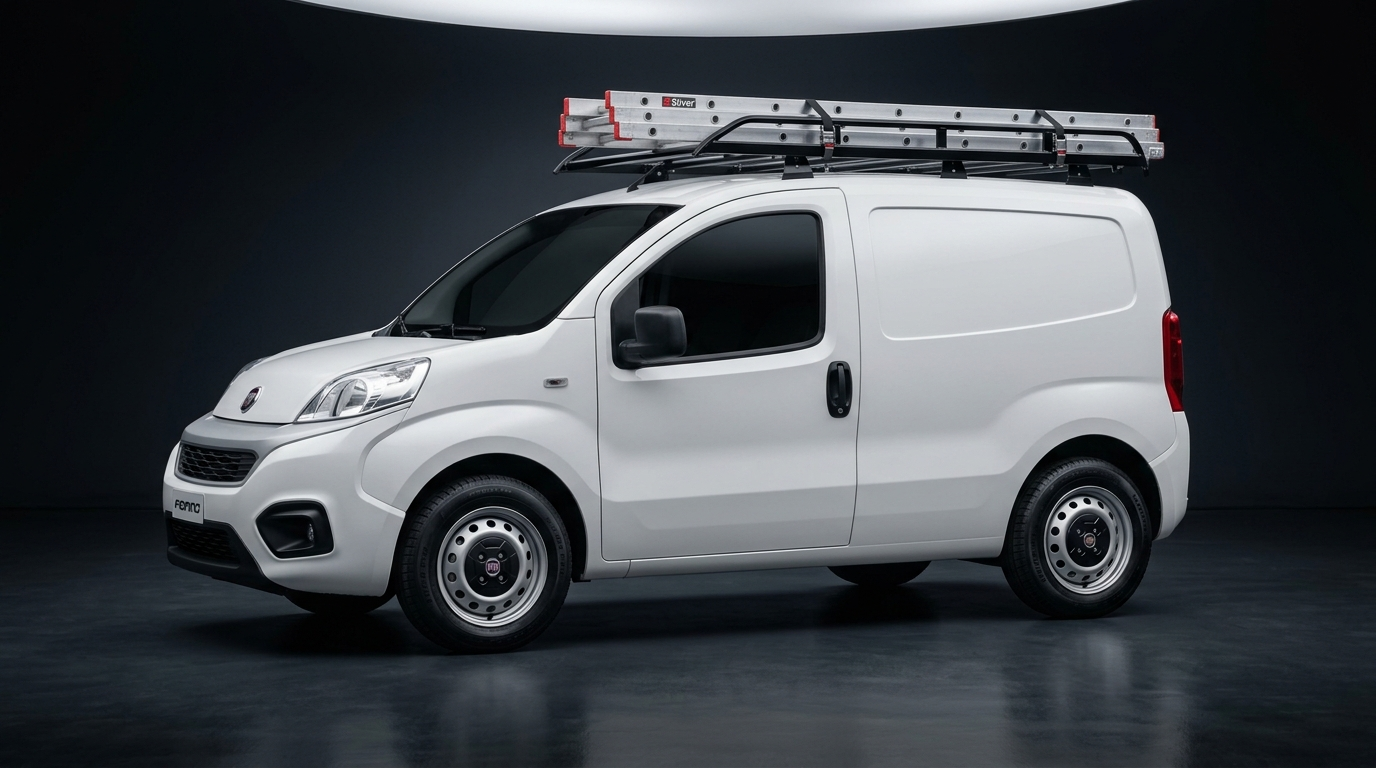
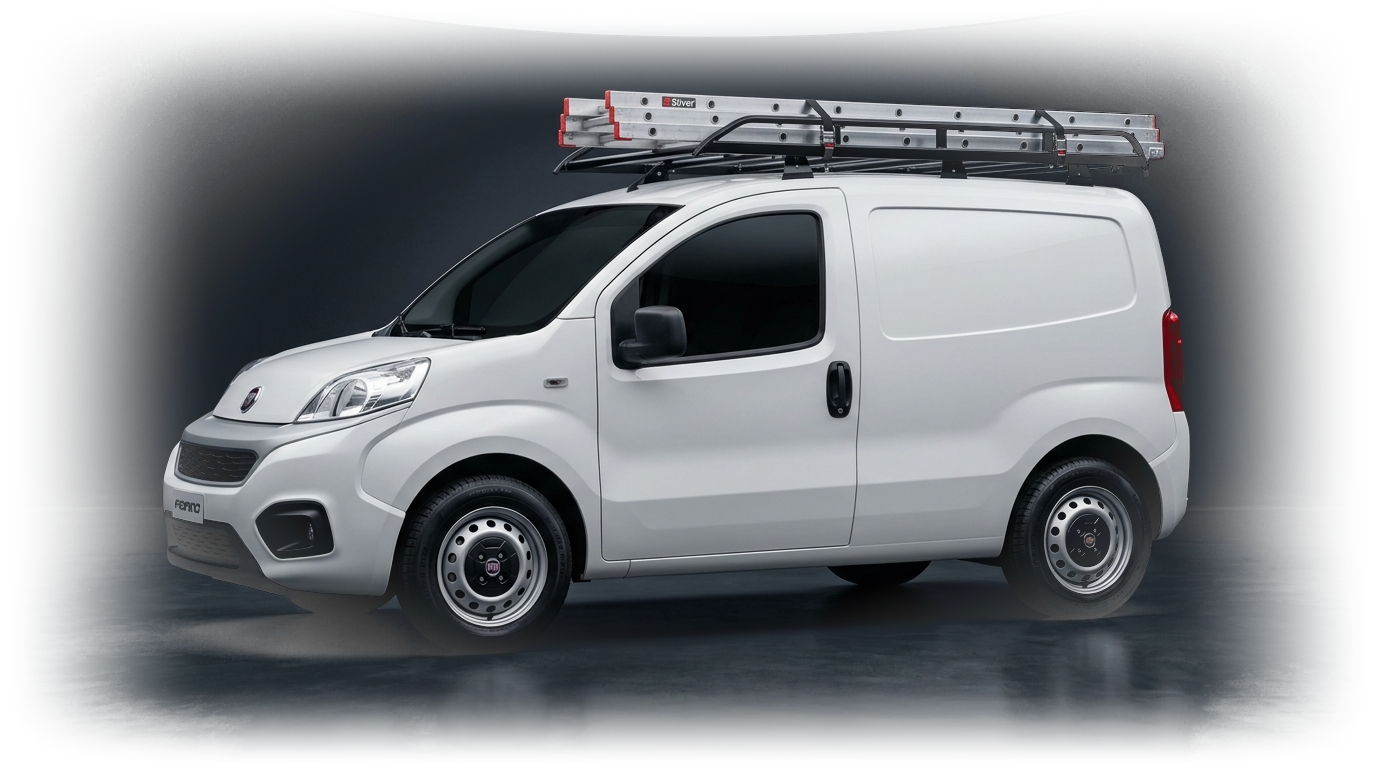
fix(veiculos): render dedicado da S10/Hilux 4x4, mapeamento correto de picapes e fusao high-end de fundo transparente com iluminacao de estudio

diff --git a/frontend/src/components/VehiclePreview.tsx b/frontend/src/components/VehiclePreview.tsx
@@ -13,51 +13,105 @@ function getVehicleImage(model: string, type: string): { src: string; alt: strin
   const modelUpper = (model || '').toUpperCase();
   const typeUpper = (type || '').toUpperCase();
 
-  if (typeUpper.includes('MOTO') || modelUpper.includes('MOTO') || modelUpper.includes('CG')) {
-    return { src: '/vehicles/moto.png', alt: 'Motocicleta Operacional' };
+  // 1. Motocicletas
+  if (
+    typeUpper.includes('MOTO') ||
+    modelUpper.includes('MOTO') ||
+    modelUpper.includes('CG') ||
+    modelUpper.includes('TITAN') ||
+    modelUpper.includes('FAN') ||
+    modelUpper.includes('BROS') ||
+    modelUpper.includes('BIZ') ||
+    modelUpper.includes('FACTOR') ||
+    modelUpper.includes('FAZER') ||
+    modelUpper.includes('XRE')
+  ) {
+    return { src: '/vehicles/moto.png', alt: 'Motocicleta Operacional de Apoio' };
   }
+
+  // 2. Caminhões Pesados / Cesto Aéreo / VUCs
   if (
     typeUpper.includes('CAMINH') ||
     modelUpper.includes('CAMINH') ||
-    modelUpper.includes('HR') ||
+    modelUpper.includes('ACCELO') ||
+    modelUpper.includes('DELIVERY') ||
+    modelUpper.includes('CARGO') ||
+    modelUpper.includes('CONSTELLATION') ||
     modelUpper.includes('DAILY') ||
-    modelUpper.includes('ACCELO')
+    modelUpper.includes('HR') ||
+    modelUpper.includes('BONGO')
   ) {
     return { src: '/vehicles/caminhao.png', alt: 'Caminhão com Cesto Aéreo' };
   }
+
+  // 3. Vans e Furgões Grandes
   if (
     typeUpper.includes('VAN') ||
     modelUpper.includes('DUCATO') ||
     modelUpper.includes('MASTER') ||
     modelUpper.includes('SPRINTER') ||
-    modelUpper.includes('BOXER')
+    modelUpper.includes('BOXER') ||
+    modelUpper.includes('JUMPER') ||
+    modelUpper.includes('EXPERT') ||
+    modelUpper.includes('TRANSIT')
   ) {
     return { src: '/vehicles/van.png', alt: 'Van Furgão Operacional' };
   }
+
+  // 4. Picapes Médias / 4x4 (S10, Hilux, Ranger, Amarok, Frontier, L200, Titano)
+  if (
+    modelUpper.includes('S10') ||
+    modelUpper.includes('S-10') ||
+    modelUpper.includes('HILUX') ||
+    modelUpper.includes('RANGER') ||
+    modelUpper.includes('AMAROK') ||
+    modelUpper.includes('FRONTIER') ||
+    modelUpper.includes('L200') ||
+    modelUpper.includes('TITANO') ||
+    modelUpper.includes('RAMPAGE')
+  ) {
+    return { src: '/vehicles/s10.png', alt: 'Picape Cabine Dupla 4x4 de Operação' };
+  }
+
+  // 5. Picapes Leves / Utilitárias com Caçamba (Strada, Saveiro, Toro, Montana, Oroch)
   if (
     modelUpper.includes('STRADA') ||
     modelUpper.includes('SAVEIRO') ||
     modelUpper.includes('TORO') ||
-    modelUpper.includes('HILUX') ||
-    modelUpper.includes('MONTANA')
+    modelUpper.includes('MONTANA') ||
+    modelUpper.includes('OROCH') ||
+    typeUpper.includes('PICAPE') ||
+    typeUpper.includes('CAMINHONETE')
   ) {
-    return { src: '/vehicles/strada.png', alt: 'Picape Utilitária com Rack' };
+    return { src: '/vehicles/strada.png', alt: 'Picape Utilitária com Rack de Escada' };
   }
+
+  // 6. Furgões Leves Compactos
   if (
     modelUpper.includes('FIORINO') ||
     modelUpper.includes('FURGAO') ||
     modelUpper.includes('KANGOO') ||
     modelUpper.includes('PARTNER') ||
-    modelUpper.includes('DOBLO')
+    modelUpper.includes('DOBLO') ||
+    modelUpper.includes('BERLINGO') ||
+    typeUpper.includes('FURGÃO')
   ) {
-    return { src: '/vehicles/fiorino.png', alt: 'Fiat Fiorino Furgão' };
+    return { src: '/vehicles/fiorino.png', alt: 'Fiat Fiorino Furgão Operacional' };
   }
-  if (modelUpper.includes('KWID') || modelUpper.includes('MOBI')) {
+
+  // 7. Hatchbacks Compactos de Serviço
+  if (
+    modelUpper.includes('KWID') ||
+    modelUpper.includes('MOBI') ||
+    modelUpper.includes('UP') ||
+    modelUpper.includes('CLIO') ||
+    modelUpper.includes('C3')
+  ) {
     return { src: '/vehicles/kwid.png', alt: 'Hatchback Compacto de Apoio' };
   }
 
-  // Default: Gol / Polo / Onix / Argo / Passeio
-  return { src: '/vehicles/gol.png', alt: 'Veículo Operacional Hatchback' };
+  // 8. Padrão: Gol / Polo / Onix / Argo / Passeio
+  return { src: '/vehicles/gol.png', alt: 'Veículo Operacional de Passeio e Suporte' };
 }
 
 export default function VehiclePreview({
@@ -73,11 +127,13 @@ export default function VehiclePreview({
 
   return (
     <div
-      className={`relative w-full h-44 rounded-2xl overflow-hidden bg-gradient-to-b from-[#141B29] via-[#0E131F] to-[#080B12] border border-white/10 flex flex-col justify-between p-3.5 group/preview transition-all duration-300 hover:border-red-500/30 shadow-xl ${className}`}
+      className={`relative w-full h-44 rounded-2xl overflow-hidden bg-gradient-to-b from-[#101522] via-[#0B0E17] to-[#070A10] border border-white/10 flex flex-col justify-between p-3.5 group/preview transition-all duration-300 hover:border-red-500/30 shadow-xl ${className}`}
     >
-      {/* Studio Lighting Highlights */}
-      <div className="absolute inset-0 bg-[radial-gradient(ellipse_at_top,_var(--tw-gradient-stops))] from-white/[0.06] via-transparent to-transparent pointer-events-none" />
-      <div className="absolute -bottom-8 left-1/2 -translate-x-1/2 w-3/4 h-12 bg-black/60 blur-xl pointer-events-none" />
+      {/* High-End Studio Ambient Lighting Spotlight */}
+      <div className="absolute inset-0 bg-[radial-gradient(ellipse_60%_50%_at_50%_40%,rgba(255,255,255,0.06),transparent_80%)] pointer-events-none" />
+
+      {/* Soft Ground Reflection Shadow */}
+      <div className="absolute bottom-5 left-1/2 -translate-x-1/2 w-4/5 h-6 bg-black/80 blur-lg rounded-full pointer-events-none" />
 
       {/* Top Floating Badges */}
       <div className="relative z-10 flex items-center justify-between gap-1.5">
@@ -113,12 +169,12 @@ export default function VehiclePreview({
         </div>
       </div>
 
-      {/* Center Photorealistic Studio Automotive Showcase */}
-      <div className="relative z-10 flex-1 flex items-center justify-center my-1 overflow-hidden">
+      {/* Center Photorealistic Showcase with smooth radial edge mask */}
+      <div className="relative z-10 flex-1 flex items-center justify-center my-0.5 overflow-hidden [mask-image:radial-gradient(ellipse_94%_90%_at_50%_50%,black_65%,transparent_100%)]">
         <img
           src={vehicle.src}
           alt={vehicle.alt}
-          className="w-full h-full object-contain max-h-32 drop-shadow-[0_12px_20px_rgba(0,0,0,0.85)] transform group-hover/preview:scale-[1.04] transition-transform duration-300 ease-out"
+          className="w-full h-full object-contain max-h-32 filter drop-shadow-[0_10px_16px_rgba(0,0,0,0.85)] transform group-hover/preview:scale-[1.04] transition-transform duration-300 ease-out"
           loading="lazy"
         />
       </div>

diff --git a/frontend/src/pages/VehiclesPage.tsx b/frontend/src/pages/VehiclesPage.tsx
@@ -70,6 +70,13 @@ function getNormalizedModel(v: Vehicle): string {
   if (m.includes('MOBI')) return 'Fiat Mobi';
   if (m.includes('ARGO')) return 'Fiat Argo';
   if (m.includes('ONIX')) return 'Chevrolet Onix';
+  if (m.includes('S10') || m.includes('S-10')) return 'Chevrolet S10';
+  if (m.includes('HILUX')) return 'Toyota Hilux';
+  if (m.includes('TORO')) return 'Fiat Toro';
+  if (m.includes('MONTANA')) return 'Chevrolet Montana';
+  if (m.includes('OROCH')) return 'Renault Oroch';
+  if (m.includes('RANGER')) return 'Ford Ranger';
+  if (m.includes('AMAROK')) return 'Volkswagen Amarok';
   if (m.includes('MOTO') || t.includes('MOTO') || m.includes('CG')) return 'Motocicletas & Apoio';
   if (m.includes('CAMINH') || t.includes('CAMINH') || m.includes('HR') || m.includes('DAILY')) return 'Caminhões & VUCs';
 
@@ -158,6 +165,9 @@ export default function VehiclesPage() {
       'Fiat Mobi',
       'Fiat Argo',
       'Chevrolet Onix',
+      'Chevrolet S10',
+      'Toyota Hilux',
+      'Fiat Toro',
     ];
 
     groups.sort((a, b) => {
